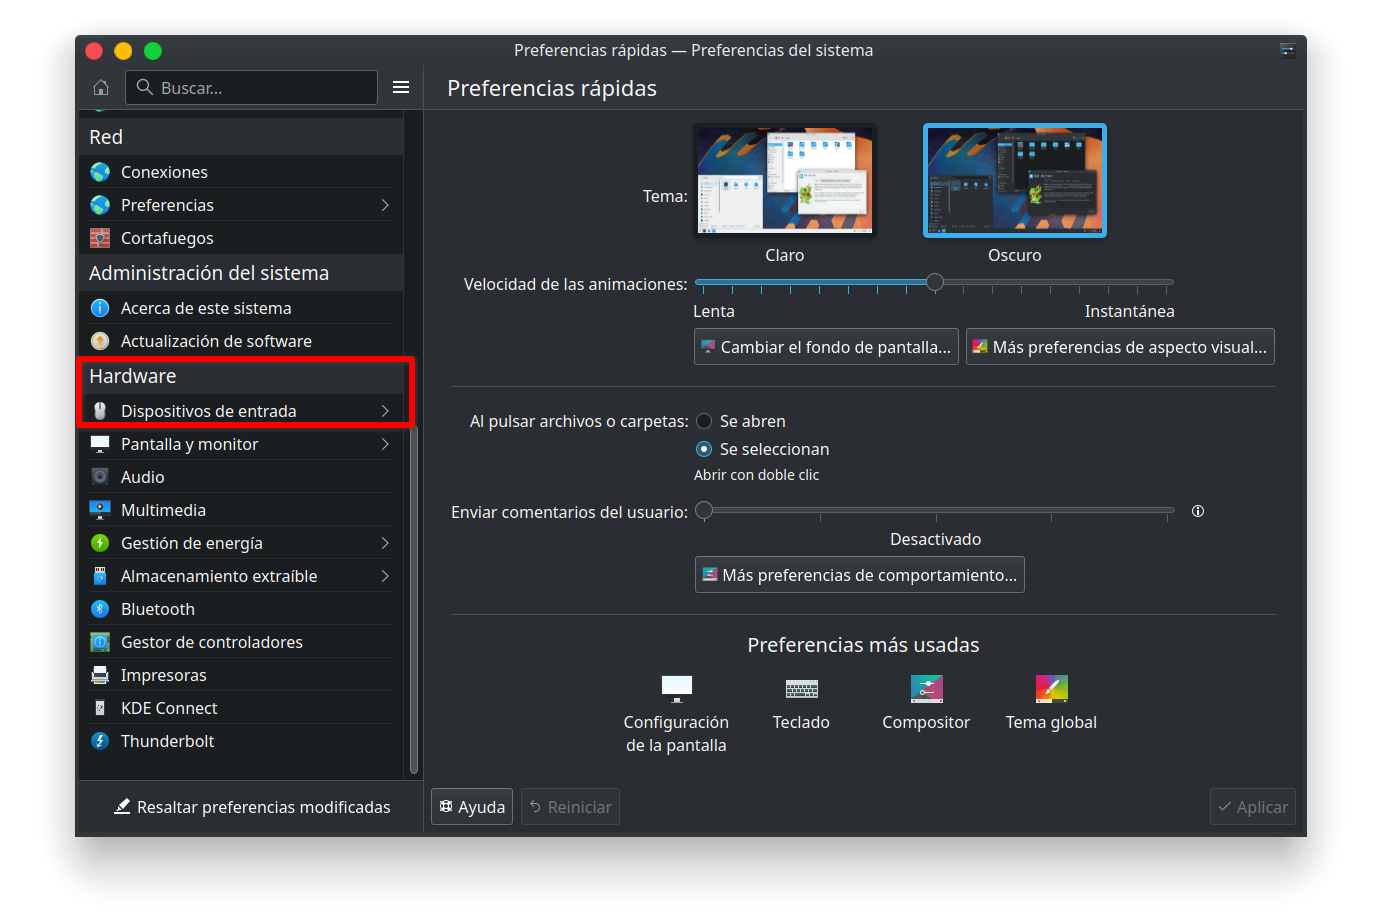
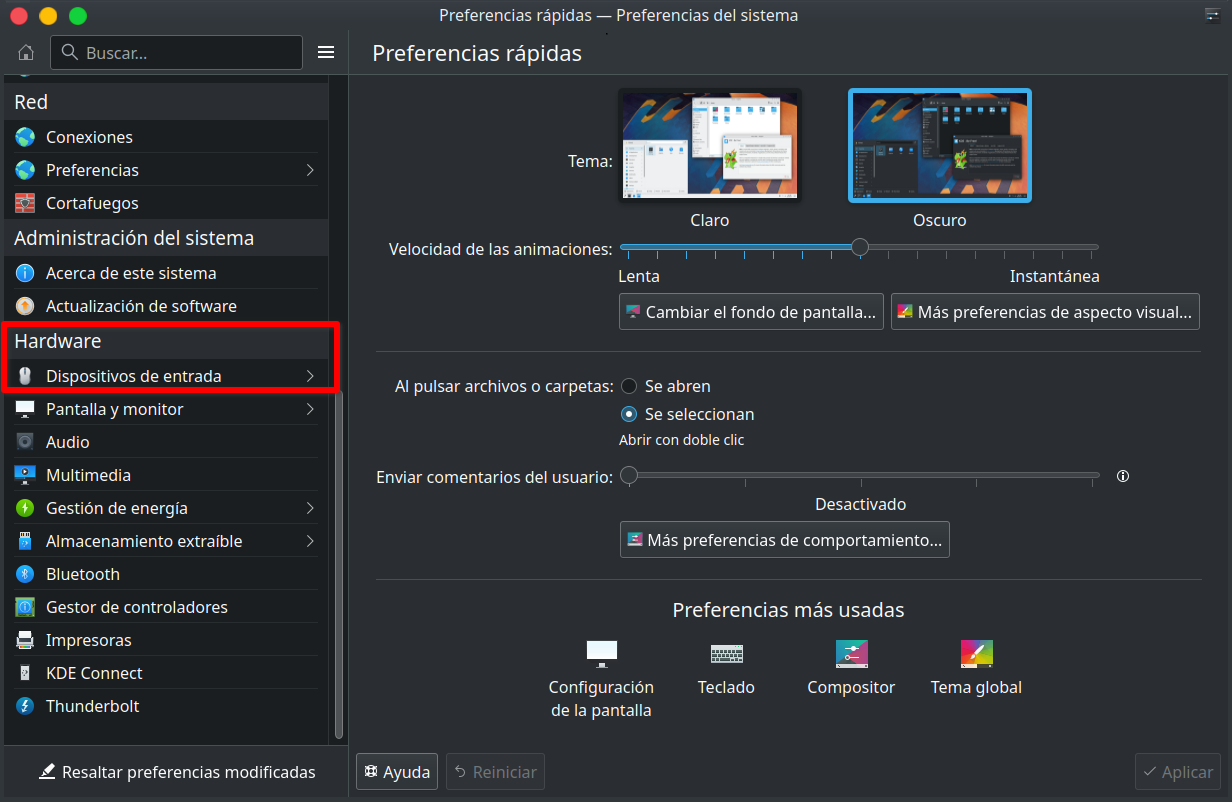
:art: img con shadow box

diff --git a/_layouts/post.html b/_layouts/post.html
@@ -1,6 +1,11 @@
 ---
 layout: default
 ---
+<style>
+    img{
+        box-shadow: 1px 1px 10px 1px black;
+    }
+</style>
 <div class="post">
 
     <header class="post-header">
